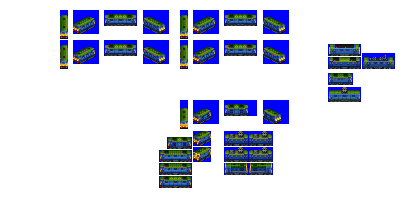
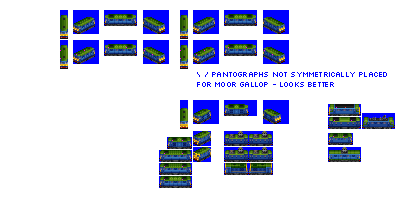
Change: sprites complete for Moor Gallop

Changed region(s): [[0.48, 0.21, 0.99, 0.81]]

diff --git a/src/vehicles/moor_gallop.py b/src/vehicles/moor_gallop.py
@@ -9,7 +9,8 @@ consist = EngineConsist(id='moor_gallop',
                         random_reverse=True,
                         gen=3,
                         pantograph_type='diamond-double',
-                        intro_date_offset=5)  # introduce later than gen epoch by design
+                        intro_date_offset=5,  # introduce later than gen epoch by design
+                        sprites_complete=True)
 
 consist.add_unit(type=ElectricEngineUnit,
                  weight=105,
